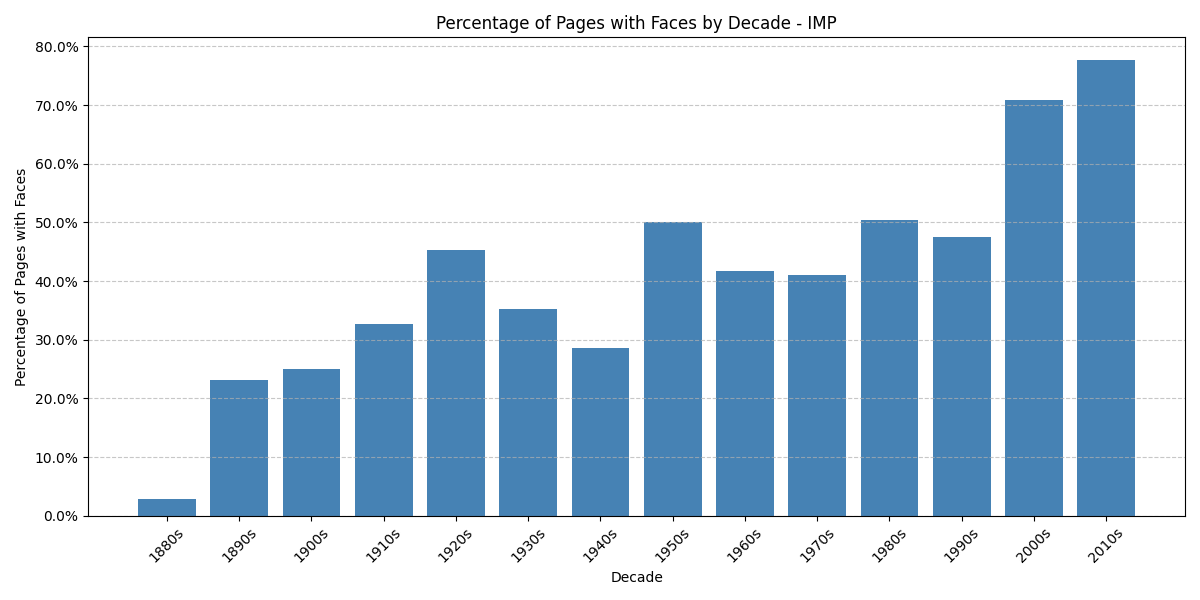
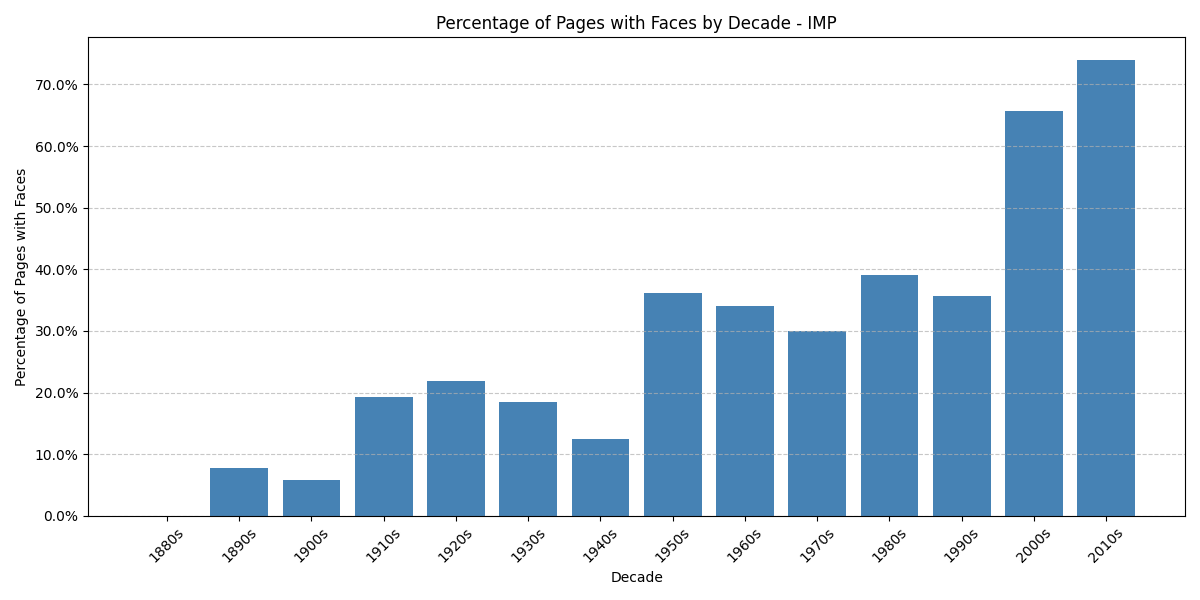
docs: update README and results for assignment 4 analysis - Revised the README to clarify the historical context of the newspapers and the analysis methodology. - Adjusted face detection thresholds in the results to reduce false positives, leading to more accurate historical trends. - Updated CSV ou

diff --git a/src/assignment_4/README.md b/src/assignment_4/README.md
@@ -4,9 +4,9 @@
 
 This project analyzes the presence of human faces in historical Swiss newspapers over time. Specifically, we examine three historic Swiss newspapers:
 
-- The Journal de Genève (JDG, 1826-1994)
-- The Gazette de Lausanne (GDL, 1804-1991)
-- The Impartial (IMP, 1881-2017)
+- The Journal de Genève (JDG)
+- The Gazette de Lausanne (GDL)
+- The Impartial (IMP)
 
 The analysis uses a pre-trained CNN model (MTCNN) to detect faces in newspaper page images, groups the results by decade, and visualizes trends in the prevalence of human faces in print media over approximately 200 years.
 
@@ -95,81 +95,80 @@ The analysis produces the following outputs:
 
 The outputs are saved to the `output/` directory.
 
-## Interpretation
-
-The results of this analysis demonstrate how the presence of human faces in printed media has evolved over time. These changes likely reflect:
-
-1. **Technological Evolution**: The development of photography and printing technology
-2. **Cultural Shifts**: Changes in journalistic practices and media presentation
-3. **Social Factors**: The increasing personalization of news and media content
-
-A detailed interpretation of the results is provided in the analysis section below.
+Initial detection using default MTCNN thresholds ([0.6, 0.7, 0.7]) produced significant false positives, especially in early decades (1790s-1840s) when photography wasn't yet used in newspapers. This observation led to adjusting the thresholds to [0.7, 0.9, 0.9], substantially increasing the model's strictness. The refined results better align with the historical development of photography and its adoption in print media.
 
 ## Analysis
 
-After running our face detection analysis on the three Swiss newspapers, we've see some trends in how human faces have been represented in print media over the past two centuries.
+After running our face detection analysis with adjusted thresholds on the three Swiss newspapers, we see more historically accurate trends in how human faces have been represented in print media over the past two centuries.
 
 ### Overall Trends
 
-The most obvious observation is the dramatic increase in the percentage of newspaper pages containing faces over time. Newspapers go from rarely showing human faces to publications where faces appear on the majority of pages in more recent decades.
+The late 19th century saw newspapers gradually containing more and more faces, mirroring the technologic development in society where photography became more and more common
 
-Looking at the total face counts reveals an even more dramatic difference between the newspapers: IMP has significantly more total faces detected (2,562) than GDL (280) and JDG (577) combined. This suggests not just more pages with faces in IMP, but also more faces per page on average.
+Looking at the data chronologically:
+- Pre-1850s: Minimal to no faces detected, consistent with the technological limitations of the era
+- 1850s-1900s: Gradual introduction of faces, corresponding to early photography adoption in newspapers
+- 1900s-1950s: Steady increase as photo reproduction techniques improved
+- 1950s-2010s: Dramatic rise reflecting modern visual journalism
 
 ![Newspaper Comparison](output/plots/newspaper_comparison.png)
 
-As shown in the comparison visualization above, IMP consistently featured significantly more faces than the other newspapers throughout most of its publication history. Meanwhile, GDL and JDG followed similar trajectories, with both ending up at almost identical overall percentages (GDL at 20.5% and JDG at 20.1%).
+As shown in the comparison visualization above,  GDL and JDG followed similar trajectories in adoptation throughout the decades, where as IMP rapidly increased the use of faces from the 1950's and up until the most recent decades included faces in their newspapers significantly more than GDL and JDG. It's also worth noting that we only have data for GDL and JDF up to the 1990's. A search on Google showed that these two newspapers in fact merged in 1991 and continued under a new name, which is a good explanation as to why we don't have any data after that.
 
 ### Individual Newspaper Patterns
 
-
 #### The Impartial (IMP, 1881-2017)
 
-IMP stands out dramatically from the other publications:
-- Very early on, from 1890s, faces appeared on +20% of pages, jumping up from 2% in 1880's.
-- By the 1920s, faces appeared on 45% of pages - more than double what we see in the other papers, and then slows down over the next two decades.
-- The 1950s it reaches 50%
-- The most recent periods show an extraordinary prevalence, reaching over 70% in the 2000s and nearly 80% by the 2010s
-
-Interestingly, IMP shows a noticeable temporary decline in the 1930s-1940s (dropping from 45% to around 28%), which might be related to World War II and its impact on newspaper production and content.
-
-The 77.66% figure for IMP in the 2010s represents an extraordinary shift in visual journalism, with more than three-quarters of all pages containing human faces.
-
-This suggests a publication that embraced visual journalism from an earlier period and continued to increase its visual focus throughout its history. This is in contrast to GDL and JDG, described below, that seemingly adopted this more slowly.
+IMP shows a distinctive pattern:
+- Starting with 0% in the 1880s, faces appear in around 8% of pages in the 1890s
+- Early 1900s shows relatively low percentages (5-6%)
+- A significant jump occurs in the 1910s-1920s, reaching around 20%
+- The percentage stabilizes around 18-22% through the 1930s
+- A noticeable jump to 36% in the 1950s
+- After some fluctuation in mid-century, there's a dramatic increase in the late 20th/early 21st century
+- The most recent periods show extraordinary prevalence - reaching over 65% in the 2000s and exceeding 70% in the 2010s
 
 #### The Gazette de Lausanne (GDL, 1804-1991)
 
-GDL shows the following trend:
-- In its earliest period (1790s-1850s), faces appeared on only 0-15% of pages
-- There's a noticeable uptick in the early 1900s
-- From the 1920s through the 1960s, the percentage stabilizes around 20%
-- The most dramatic shift occurs in the 1980s-1990s, with percentages jumping to 32-35%
+For GDL, the results indicate:
+- The earliest periods (1790s-1850s) show minimal face detection (0-3%) which we can reasonable interpret as being mostly false positives despite we adjusted the detection thresholds upwards from the defaults. 
+  - We can consider these false positives as we now photography was not used before the last part of the 19th century.
+- No faces detected from 1840s through 1890s
+- A clear emergence starting in the 1900s (13%)
+- Consistent presence in the 1910s-1930s (10-11%)
+- Slight decline in mid-century (8-6%)
+- The percentages increase significantly in the 1980s-1990s (20-26%)
 
-GDL actually shows an interesting early peak in the 1800s (25%) that then declined significantly before rising again in the 20th century - the reason for this is not obvious.
-´
+These results give reason to wonder how reliable the face detection algorithms is throughout, and whether the chosen detection thresholds are too restrictive.
 
 #### The Journal de Genève (JDG, 1826-1994)
 
-JDG shows a more gradual but steady progression:
-- The 19th century shows minimal face presence (0-10%)
-- A notable increase appears in the early 20th century
-- The 1950s there's face on 25% of pages
-- Like GDL, JDG reaches an all time high in 1980's-1990's
+JDG demonstrates a gradual adoption of facial imagery:
+- No faces detected prior to the 1870s
+- Initial appearance in the 1870s at very low levels (2%)
+- Steady increase through the late 19th century (6% by 1890s)
+- Relatively stable presence in early 20th century (4-6%)
+- Gradual increase from the 1920s through 1940s (5-11%)
+- More significant presence by mid-century (14-15% in 1950s-1960s)
+- Reaching peak levels in the 1970s-1980s (around 21%)
+- Slight decrease in the 1990s (19.8%)
 
-JDG shows more variability between decades compared to the other newspapers, with more noticeable up and down movements rather than a steady increase.
+JDG's pattern shows a more consistent, gradual increase compared to the other newspapers, with fewer dramatic shifts between decades.
+From a non-domain experts perspective, this gradual increase seems plausible and speaks in favour of the model configuration.
 
 ### Historical Context and Significance
 
 These patterns reflect several important developments:
 
-1. **Technological Evolution**: The introduction of photography and improvements in printing technology made it increasingly feasible and affordable to include images in newspapers.
+1. **Technological Evolution**: The introduction of photography and improvements in printing technology made it increasingly feasible and affordable to include images in newspapers, clearly visible in the minimal detection before 1870s and gradual increase thereafter.
 
-2. **Cultural Transformation**: The increasing prevalence of faces reflects a fundamental shift in how news was presented - from dense text focused on events and facts toward more human-centered storytelling that emphasized individuals.
+2. **Cultural Transformation**: The increasing prevalence of faces reflects a fundamental shift in how news was presented - from dense text toward pages with a stronger visual appeal.
 
-3. **Regional Differences**: The significant difference between IMP and the other two newspapers might reflect different editorial philosophies or regional preferences. IMP seems to have embraced a more visual, personalized style of reporting much earlier than its counterparts.
+3. **Regional Differences**: The significant difference between IMP and the other two newspapers might reflect different editorial philosophies or regional preferences. IMP shows a notable early adoption in the 1910s-1920s (20%) and dramatically accelerated use by the 1950s (36%), while GDL and JDG followed more conservative trajectories.
 
-4. **Modern Visual Culture**: The dramatic increase in the most recent decades (particularly for IMP) mirrors broader cultural shifts toward visual media and personality-focused journalism.
+4. **Modern Visual Culture**: The dramatic increase in the most recent decades (particularly for IMP exceeding 70% by the 2010s) mirrors broader cultural shifts toward visual media and personality-focused journalism.
 
-It's worth noting that our dataset shows an uneven distribution of pages across decades, with more pages available from recent decades. For example, JDG has 424 pages from the 1990s but only 26 from the 1820s. While this reflects the changing volume of newspaper production over time, it may also influence the reliability of our decade-by-decade comparisons.
+It's worth noting that our dataset shows an uneven distribution of pages across decades, with more pages available from recent decades. This reflects the changing volume of newspaper production over time but may also influence the reliability of our decade-to-decade comparisons.
 
 This analysis provides a quantitative glimpse into the visual transformation of print media, showing how newspapers evolved from text-heavy documents to increasingly visual platforms that prominently feature human faces. The trend accelerated dramatically in the late 20th and early 21st centuries, suggesting a fundamental shift in how information is communicated and consumed.
 
@@ -180,7 +179,12 @@ This analysis has several limitations to consider:
 1. **Image Quality**: Historical newspaper scans vary in quality, which may affect face detection accuracy.
 2. **Historical Context**: Changes in newspaper formats, layouts, and content focus over time might influence the results.
 3. **Temporal Distribution**: While we have a substantial number of pages from each newspaper, the distribution across different time periods may not be even, potentially affecting decade-to-decade comparisons.
-
+4. **Detection Thresholds**: The analysis required adjusting detection confidence thresholds ([0.7, 0.9, 0.9] instead of default [0.6, 0.7, 0.7]) to reduce false positives in earlier periods. 
+This adjustment was necessary because the MTCNN model, trained primarily on modern photographs, can misidentify illustrations or decorative elements in historical newspapers as faces. This highlights the challenges of applying modern computer vision tools to historical materials.
+1. **Limited Hyperparameter Optimization**: Our threshold adjustment ([0.7, 0.9, 0.9]) was based on visual inspection rather than systematic optimization. A more rigorous approach using grid search with manually annotated ground truth data from different periods could potentially yield better discrimination between real faces and false positives.
+2. **Model Selection**: We exclusively used MTCNN for face detection. Other modern face detection algorithms might perform differently on historical materials and could be compared in future work.
+3. **Qualitative Analysis**: Our analysis counts faces but doesn't distinguish between photographs, illustrations, or engravings, nor does it consider face size, placement, or prominence on the page - all factors that influence visual impact.
+4. **Lack of Ground Truth**: Without manually annotated historical newspaper data, we couldn't quantitatively evaluate detection performance (precision/recall) across different eras, making it difficult to objectively measure false positive and false negative rates.
 
 ## Requirements
 
